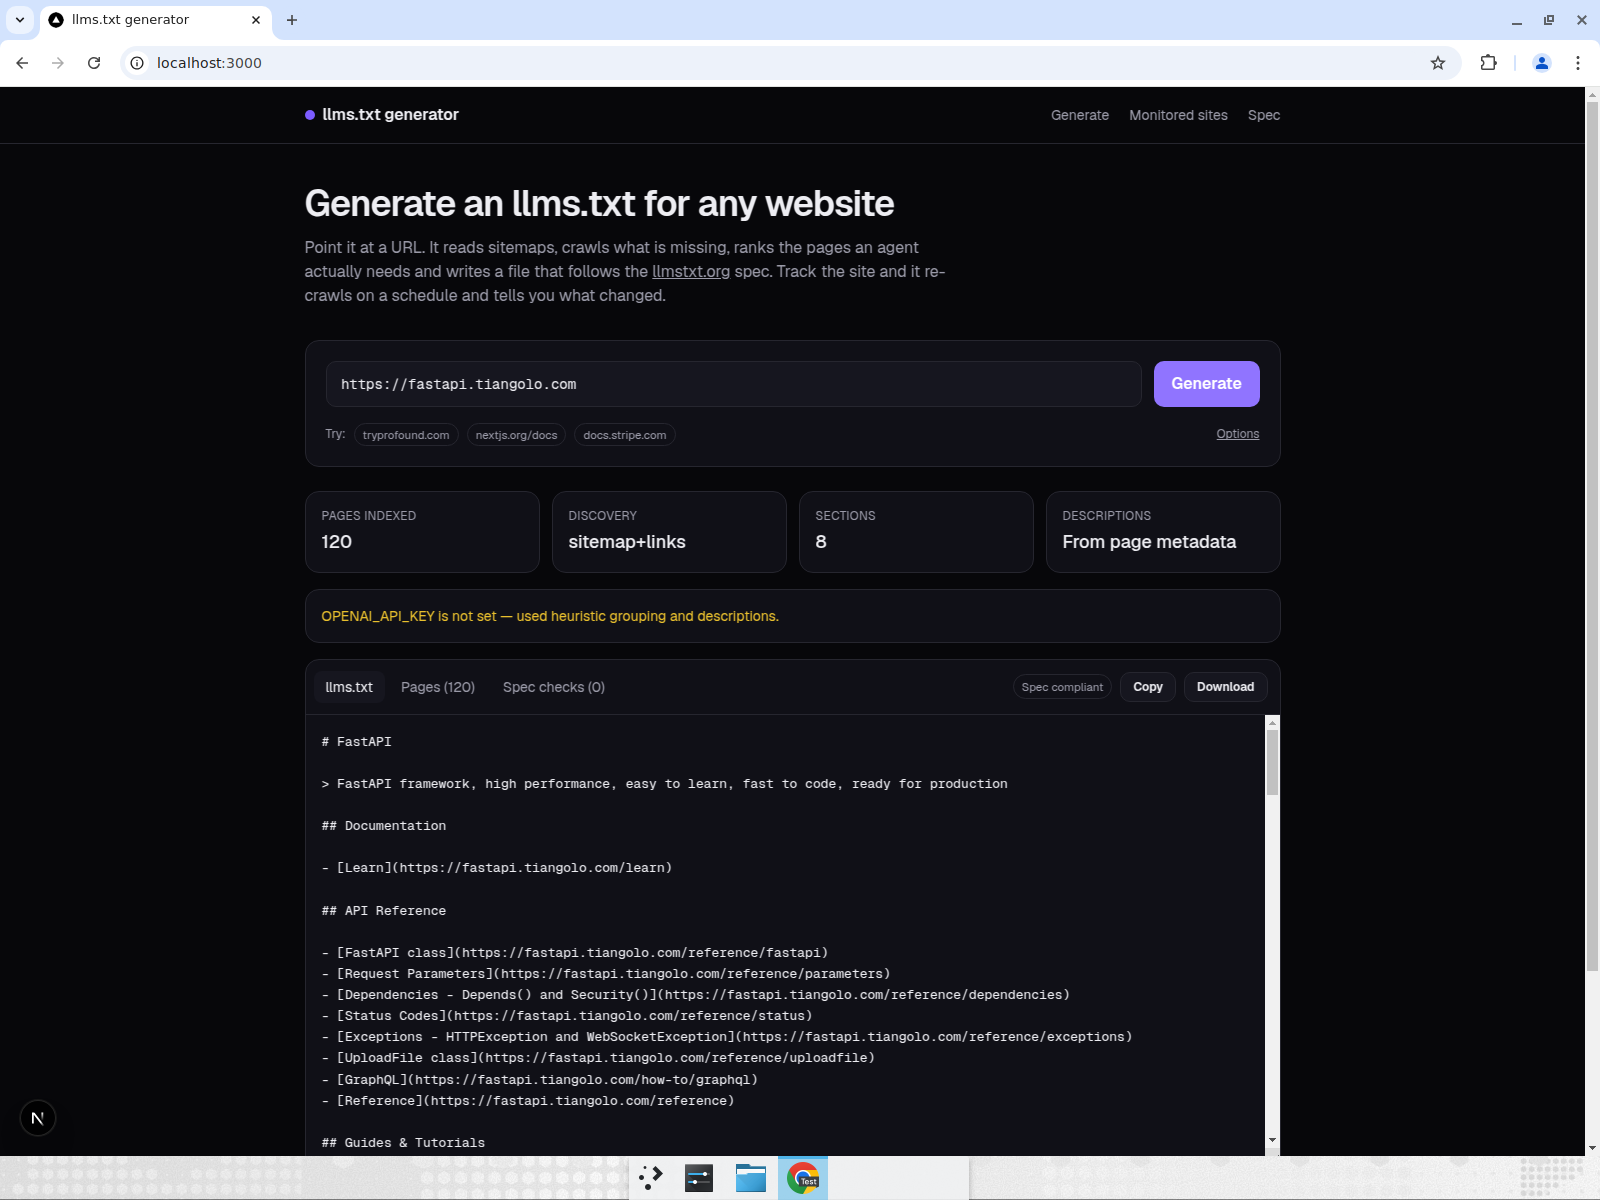
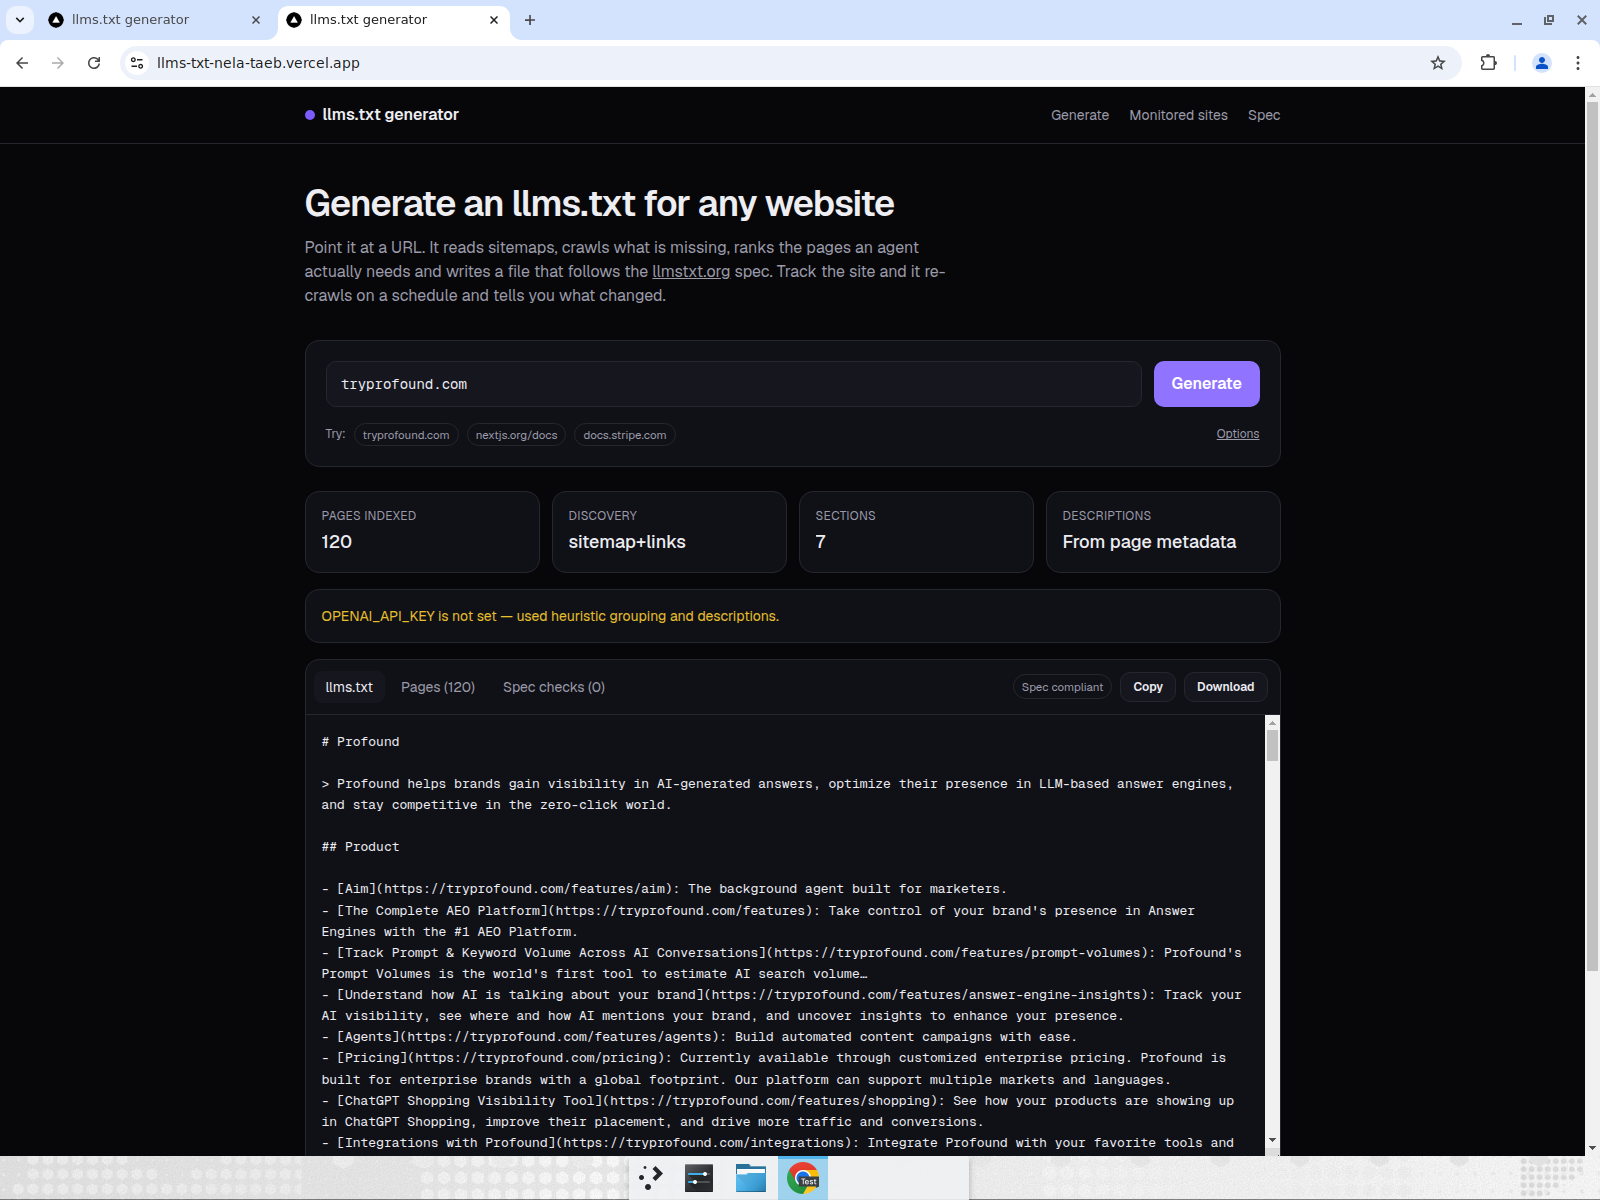
Document live deployment URL and update screenshot

diff --git a/README.md b/README.md
@@ -1,5 +1,7 @@
 # llms.txt Generator
 
+**Live app: https://llms-txt-nela-taeb.vercel.app**
+
 Paste a website URL, get a spec-compliant [`llms.txt`](https://llmstxt.org/) back — then keep it
 monitored so it is regenerated when the site changes.
 
@@ -11,7 +13,7 @@ monitored so it is regenerated when the site changes.
 
 ## Screenshots
 
-Generating a file (FastAPI docs, 120 pages, spec compliant):
+Generating a file (tryprofound.com, 120 pages, spec compliant):
 
 ![Generate](docs/generate.png)
 
